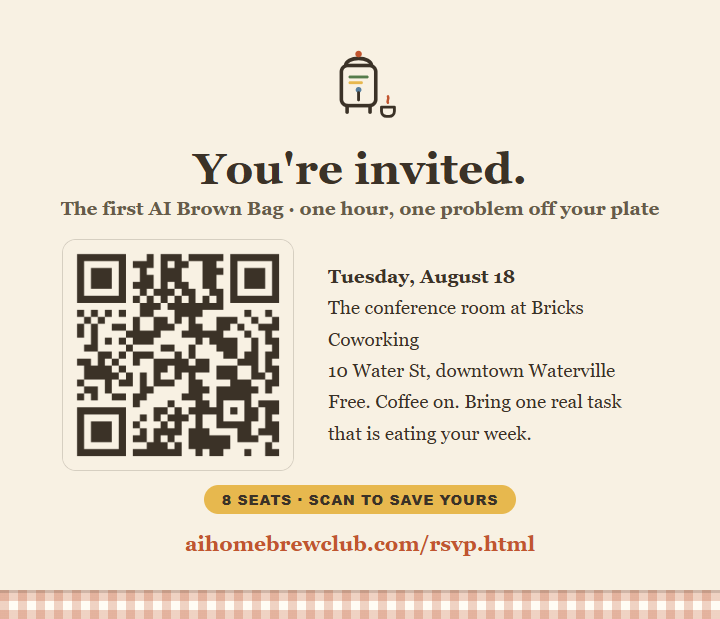
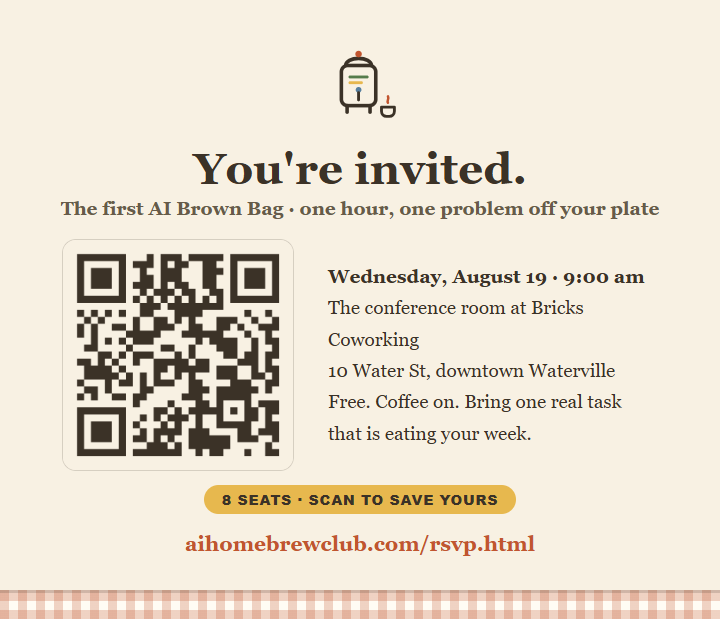
Move first meetup to Wednesday, August 19 at 9:00 am

Changed region(s): [[0.4583, 0.4297, 0.9167, 0.4604]]

diff --git a/rsvp.html b/rsvp.html
@@ -77,7 +77,7 @@
   <p class="sub" id="evTitle">The AI Homebrew Club &middot; free, and it always will be</p>
   <div class="card">
     <span class="seats" id="seatPill">Checking seats&hellip;</span>
-    <span id="evWhen"><b>When:</b> Tuesday, August 18. Time announced soon. One hour, coffee on.</span>
+    <span id="evWhen"><b>When:</b> Wednesday, August 19, 9:00 am. One hour, coffee on.</span>
     <span id="evWhere"><b>Where:</b> the conference room at Bricks Coworking &amp; Innovation Space, Hathaway Creative Center, 10 Water St, downtown Waterville.</span>
     <span><b>Bring:</b> a laptop or just your phone, and one real task that is eating your week.</span>
     <span style="font-size:.85rem"><a href="waterville.html">Full agenda on the Waterville page</a></span>
@@ -141,7 +141,7 @@
   var BASE = 'https://aihc-notes-690dcde965fd.herokuapp.com/notes'.replace(/\/notes\b.*$/, '');
   /* one page, many events: /rsvp.html?event=<id> — each event gets its own QR */
   var params = new URLSearchParams(location.search);
-  var EVENT = params.get('event') || 'aug18-bricks';
+  var EVENT = params.get('event') || 'aug19-bricks';
   var LS_MINE = 'aihc_rsvp_' + EVENT;
   function $(id){ return document.getElementById(id); }
 

diff --git a/deck/join.html b/deck/join.html
@@ -662,7 +662,7 @@
       <div>
         <h2>Come to the first AI Brown Bag. Bring a neighbor.</h2>
         <p class="motto" style="margin-top:14px">&ldquo;Give to help others.&rdquo;</p>
-        <p class="lede quiet" style="margin-top:10px">The recipes are free. They always will be.<br>Tuesday, August 18 &middot; the conference room at Bricks Coworking, downtown Waterville.<br><a href="https://aihomebrewclub.com/">aihomebrewclub.com</a></p>
+        <p class="lede quiet" style="margin-top:10px">The recipes are free. They always will be.<br>Wednesday, August 19, 9:00 am &middot; the conference room at Bricks Coworking, downtown Waterville.<br><a href="https://aihomebrewclub.com/">aihomebrewclub.com</a></p>
       </div>
       <div class="fig">
         <span class="logo" data-size="150"></span>

diff --git a/index.html b/index.html
@@ -197,7 +197,7 @@
       <div class="invite">
         <span class="when">The first AI Brown Bag</span>
         <span><b>Where:</b> the conference room at Bricks Coworking &amp; Innovation Space, Hathaway Creative Center, 10 Water St, downtown Waterville</span>
-        <span><b>When:</b> Tuesday, August 18. Time announced soon. One hour, coffee on.</span>
+        <span><b>When:</b> Wednesday, August 19, 9:00 to 10:00 am. Coffee on.</span>
         <span><b>Bring:</b> a laptop or just your phone, and one real task that is eating your week.</span>
         <span><b>Cost:</b> free. No tickets, no vendors, nobody selling you anything.</span>
         <span><b>Seats:</b> 8, first come, first served. <a href="rsvp.html">RSVP here</a> so we can save yours.</span>
